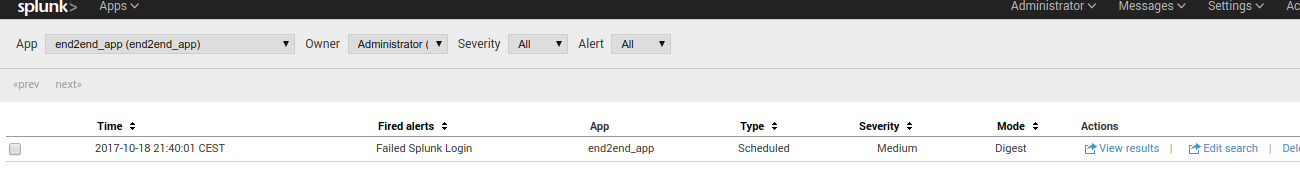
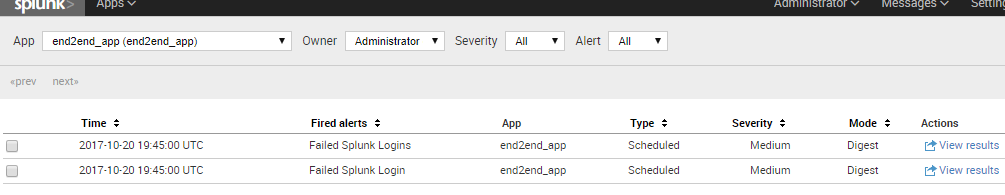
Subresult fetch (#8)
* adding support for partialresultmatching in the alert

* adding disabled ES search

* update doc

diff --git a/sh/opt/splunk/etc/apps/end2end_app/bin/upstream_eventreplay.py b/sh/opt/splunk/etc/apps/end2end_app/bin/upstream_eventreplay.py
@@ -6,12 +6,13 @@ import json, sys, subprocess
 from cStringIO import StringIO
 
 
+splunkCredentials = "admin:changeme"
+alertName = "Failed%20Splunk%20Logins"
 verbose = 1
-sids = []
-alertName = "Failed%20Splunk%20Login"
-gapSearch = "| rest /servicesNS/admin/end2end_app/alerts/fired_alerts/%s | fields sid | rex field=sid \"(?<info_sid>^.*)$\" | fields info_sid | dedup info_sid | append [ search index=main source=\"esm_event_report_success\" | table info_sid | dedup info_sid] | stats count by info_sid | search count<2" % (alertName)
+
+splSearchAlertSids = "| rest /servicesNS/admin/end2end_app/alerts/fired_alerts/%s | fields sid | rex field=sid \"(?<info_sid>^.*)$\" | fields info_sid | dedup info_sid" % (alertName)
+splSearchDeliveredAlerts = "search earliest=-1d@d latest=-1m@m index=main source=\"esm_event_report_success\" | dedup info_sid, upstream_id | table info_sid, upstream_id"
 jobSearch = "/services/search/jobs/%s/results"
-splunkCredentials = "admin:asdfasdf"
 
 def runSearch(params):
     old_stdout = sys.stdout
@@ -31,24 +32,48 @@ def getSearchResults(sid):
         
 def main():
     up = u.Upstream()
-    results = runSearch(['--output_mode', 'json', gapSearch])
 
-    alerts = json.loads(results)
-    for alert in alerts['results']:
-        sids.append(alert['info_sid'])
+    # get sids from available alerts
+    sids = []
+    results = runSearch(['--output_mode', 'json', splSearchAlertSids])
+    data = json.loads(results)
+    for d in data['results']:
+        sids.append(d['info_sid'])
 
+    # get sids from delivered alerts and create a dict with received sids and results within the sids
+    received = {}
+    results = runSearch(['--output_mode', 'json', splSearchDeliveredAlerts])
+    data = json.loads(results)
+    for d in data['results']:
+        info_sid = d['info_sid']
+        upstream_id = d['upstream_id']
+        if info_sid not in received:
+            received[info_sid] = []
+        received[info_sid].append(upstream_id)
+
+    # compare results from alerts against received sids and resend missing results
     for sid in sids:
-        print sid
         results = getSearchResults(sid)
         if results:
             results = json.loads(results)
             try:
                 for result in results['results']:
-                    if verbose: 
-                        print result
-                    dest = up.getDestinations(up.getRouting(result['region']))
-                    json_data = json.dumps(result)
-                    up.sendData(json_data, len(result), dest)
+
+                    alert_replay = False
+                    info_sid = result['info_sid']
+                    upstream_id = result['upstream_id']
+
+                    if info_sid not in received:
+                        alert_replay = True
+                    else:
+                        alert_replay = upstream_id not in received[info_sid]
+                        
+                    if alert_replay:
+                        if verbose:
+                            print result
+                        dest = up.getDestinations(up.getRouting(result['region']))
+                        json_data = json.dumps(result)
+                        up.sendData(json_data, len(result), dest)
             except Exception as ex:
                 print ex
                 pass

diff --git a/README.md b/README.md
@@ -35,7 +35,7 @@ that are not received by the upstream platform.
 1. There is an app called *end2end_app* that should be installed on the 
 Search Head. 
 2. There is scheduled search executed each minute that generates the Alert on Failed Splunk Logins. Alerts contain the sid - unique identifier of the search.
-3. Alerts are piped to "| upstream" command.
+3. Alerts are piped to "|upstream\_addmeta(usecase) | upstream" command.
 4. upstream command will display the events in the GUI and forwards the events to multiple destinations sequentially based on the 'region' flag in the alert.
 5. Receiver is simple TCP receiver that records the events in three files:
 - /tmp/shared\_all\_logs.log contains all events
@@ -45,9 +45,9 @@ Search Head.
 7. All files are taken by Splunk Universal Forwarder and are indexed by Splunk Indexer.
 8. Event replay is performed by the 'upstream\_eventreplay.py'
 9. It searches through the received\_logs.log and compares it with existing alerts via REST API.
-10. There should be two unique identifier, one from Search Head, one from upstream provider.
-11. If there is no identifier from the upstream provider, then the eventreplay is executed.
-12. Alerts contain all data and it is not needed to reschedule search again.
+10. It compares existing results in each Alert against received logs.
+11. If there is no match from the upstream provider (received logs), then the eventreplay is executed to replay missing event.
+12. Alerts contain all data and it is not needed to reschedule the search again.
 13. The alert data is received over REST API and replayed towards the Receiver.
 14. Receiver may choose to accept it or missed it (see 6.)
 
@@ -73,6 +73,5 @@ Search Head.
 
 ## Known issues
 - Realtime searches are not supported since the sid is not generated in the same way as scheduled search
-- Multiple results in the alert are not supported. The POC would need to be extended by partial alert replay.
 
 

diff --git a/INSTALL.md b/INSTALL.md
@@ -60,7 +60,7 @@ The alert will be triggered in a minute in the Splunk GUI -> Activity -> Trigger
 Click on the alert to see the results
 ![](https://github.com/1havran/es2esm/blob/master/screenshots/alertdetail.png)
 
-Examine the region of the event. Event might be "emea" or "apac". The region is randomly selected by the alert logic. If it is "apac", then it has not been received by the Receiver as we started EMEA Receiver only. See first screenshot.
+Examine the region of your alert. Each result is assigned a region. It might be "emea" or "apac". The region is randomly selected by the "upstream\_addmeta" command. If it is "apac", then it has not been received by the Receiver as we started EMEA Receiver only. See first screenshot.
 ![](https://github.com/1havran/es2esm/blob/master/screenshots/apacregion.png)
 
 ![](https://github.com/1havran/es2esm/blob/master/screenshots/apacreceiverdown.png)
@@ -81,3 +81,4 @@ Sometimes events must be replayed multiple times as the receiver marks events as
 
 # to schedule event replay
 	cp es2esm/sh/etc/crontab /etc/cron.d/upstream_eventreplay
+
